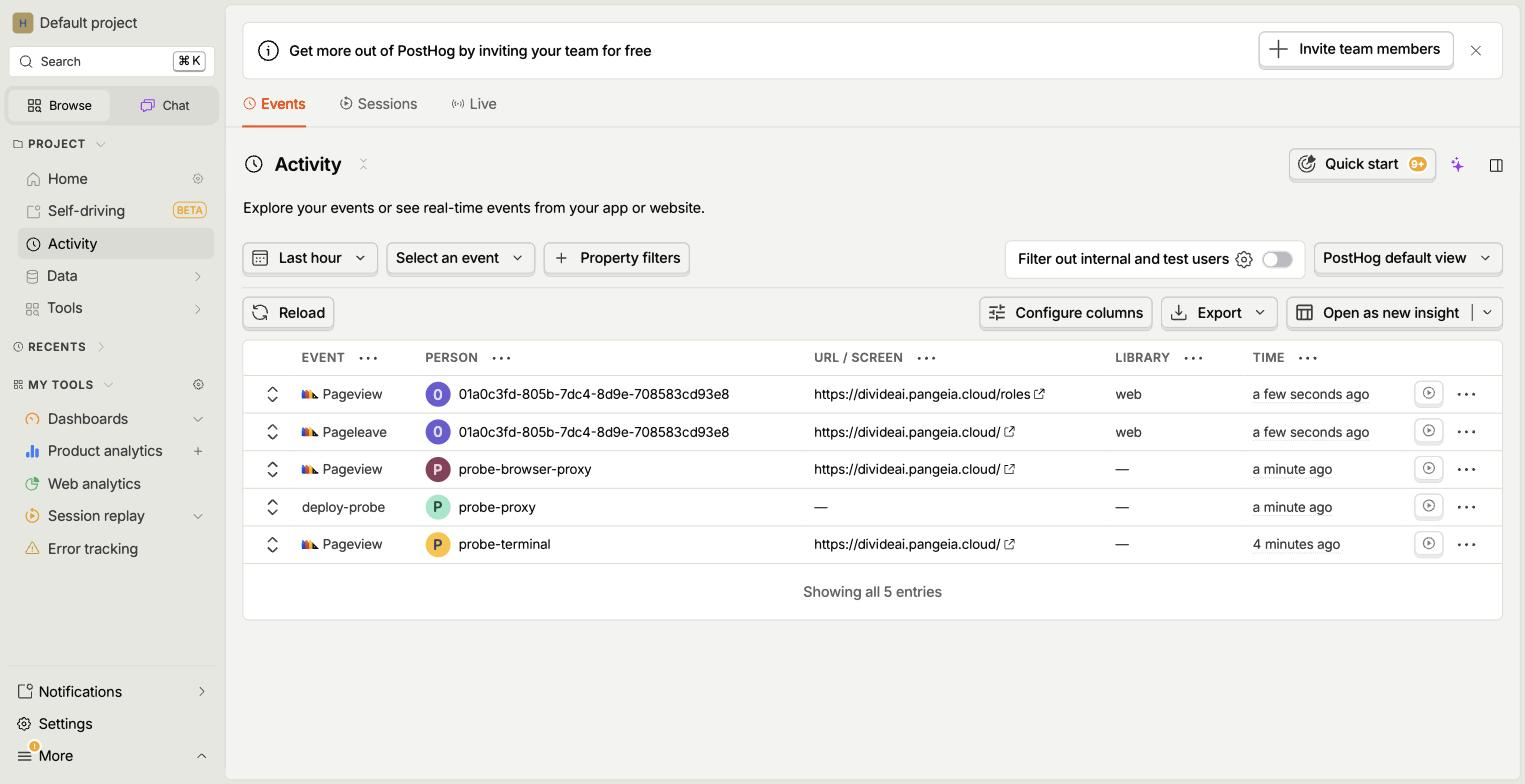
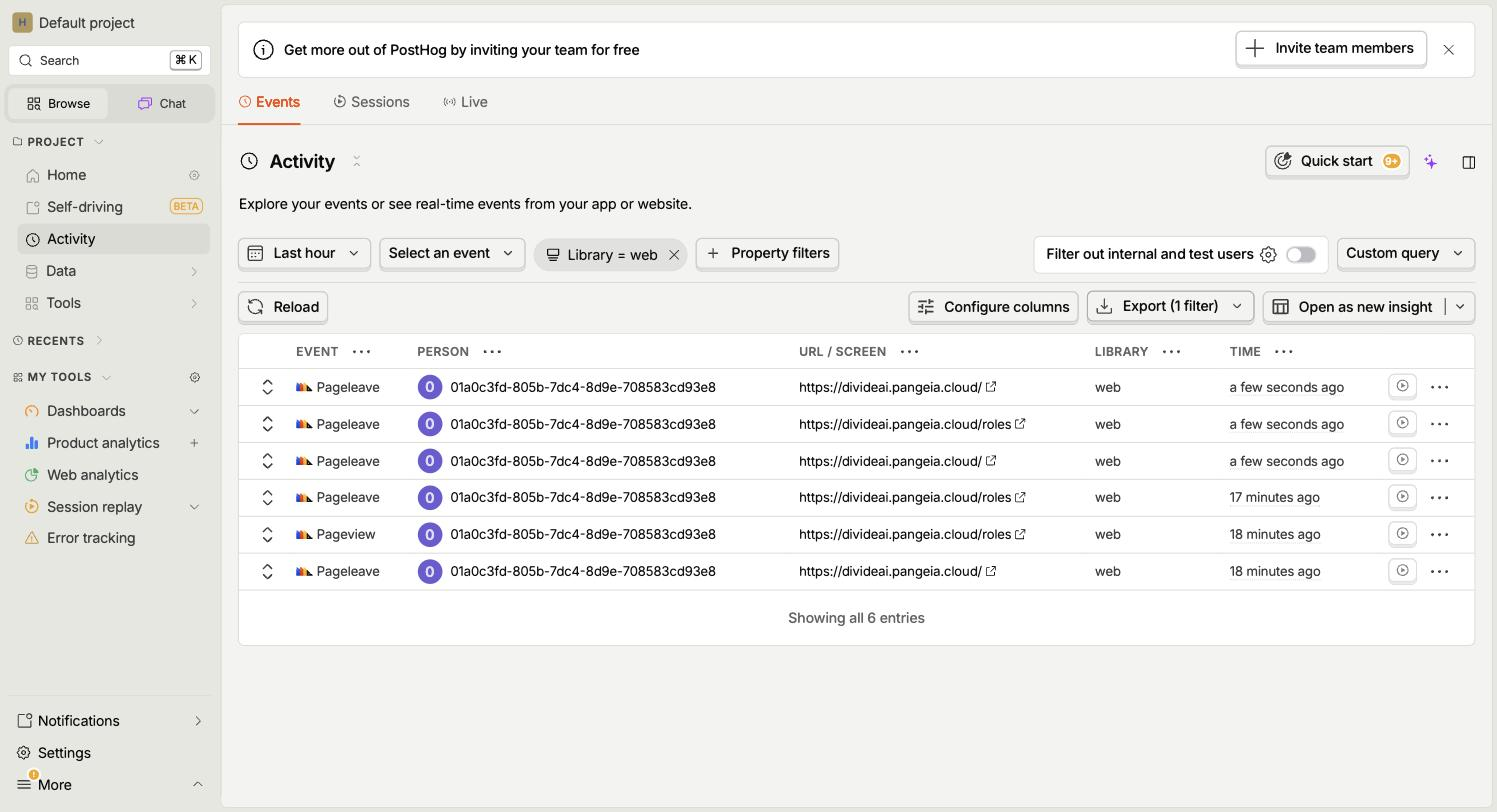
docs: print do PostHog so com evento de navegador
O print anterior misturava as sondas de diagnostico disparadas por curl com
a visita real. Refeito com o filtro Library = web, e o texto explica por que
o filtro esta la.

diff --git a/docs/entregavel-seo-geo.md b/docs/entregavel-seo-geo.md
@@ -176,7 +176,7 @@ O código está no app publicado: `posthog-js` inicializado em `artifacts/divide
 
 O token de projeto (`phc_...`) fica no código do cliente porque é público por definição: ele só permite escrever evento, nunca ler dado. As chaves que não podem vazar (Anthropic, Stripe, Clerk) continuam apenas nas variáveis de ambiente do servidor.
 
-**Evidência**: `docs/evidencias/posthog-eventos.jpg`, painel com os eventos `Pageview` e `Pageleave` vindos de `divideai.pangeia.cloud`, library `web`.
+**Evidência**: `docs/evidencias/posthog-eventos.jpg`, painel de Activity filtrado por `Library = web`, ou seja, só o que veio de navegador de verdade, com os `Pageview` e `Pageleave` de `divideai.pangeia.cloud`. O filtro está no print de propósito: durante o diagnóstico do bloqueador disparamos algumas requisições de teste por linha de comando, e elas não são visita de ninguém.
 
 ### O bloqueador de rastreador: o erro que quase passou batido
 
